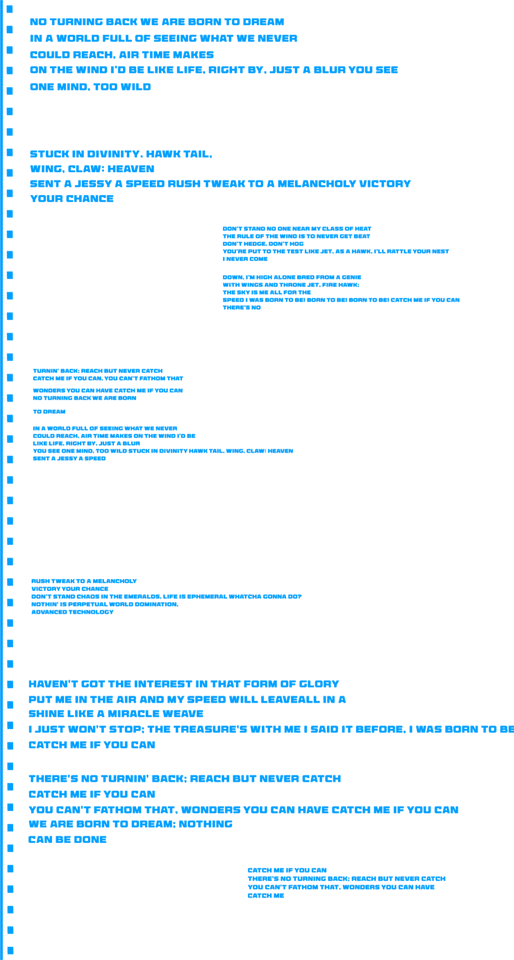
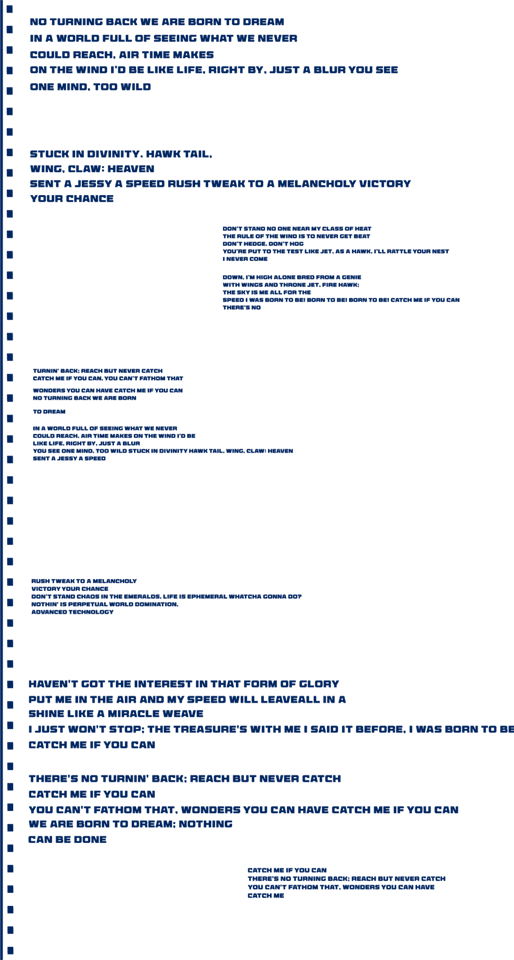
Riders hue rotate

diff --git a/js/riders/controller.js b/js/riders/controller.js
@@ -31,24 +31,37 @@ buscadorClone.addEventListener("keydown", function ({ target: { value: valorBusq
     }
 })
 
-storage.sync.get({ ridersColor: { red: 0, green: 0, blue: 0, alpha: 0 } }, ({ ridersColor }) => {
+/* storage.sync.get({ ridersColor: { red: 0, green: 0, blue: 0, alpha: 0 } }, ({ ridersColor }) => {
     cambiaColor(ridersColor)
     colorRiders.value = rgbToHex(ridersColor.red, ridersColor.green, ridersColor.blue)
+}) */
+
+storage.sync.get({ "ridersTurn": "0" }, ({ ridersTurn: grados }) => {
+    cambiaColor(grados, true)
+    colorRiders.value = grados;
 })
 
 var timeoutColor = setTimeout(() => { });
 
-colorRiders.addEventListener("input", ({ target: { value: color } }) => {
+/* colorRiders.addEventListener("input", ({ target: { value: color } }) => {
     if (timeoutColor != undefined) clearTimeout(timeoutColor);
     cambiaColor(hexToRgb(color))
     timeoutColor = setTimeout(() => {
         cambiaColor(hexToRgb(color), true)
     }, 1500);
+}) */
+
+colorRiders.addEventListener("input", ({ target: { value: grados } }) => {
+    if (timeoutColor != undefined) clearTimeout(timeoutColor);
+    cambiaColor(grados)
+    timeoutColor = setTimeout(() => {
+        cambiaColor(grados, true)
+    }, 600);
 })
 
 var disableSave = true
 
-cancelColor.addEventListener("click", () => {
+/* cancelColor.addEventListener("click", () => {
     if (disableSave) {
         clearInterval(timeoutColor)
         cambiaColor({
@@ -63,7 +76,7 @@ cancelColor.addEventListener("click", () => {
         }, 2500);
         reproduceSonido(menuQuestion, .5)
     }
-})
+}) */
 
 var extrasMusic;
 
@@ -72,13 +85,32 @@ cogSettings.addEventListener("click", () => {
     cogSettings.classList.toggle("gearSpin")
     if (menuA.classList.contains("gearChange")) {
         if (extrasMusic == undefined) extrasMusic = reproduceSonido(menuExtras, 0.15, true, 18, 87.6, 0, 500);
-        else turnUp(extrasMusic, 0.15)
+        else setTimeout(() => {
+            turnUp(extrasMusic, 0.15)
+        }, 250);
     }
     else {
         lowerVolume(extrasMusic, 0.004)
     }
     reproduceSonido(menuConfirm, 0.2)
 })
+
+/* async function cambiaColor({ red, green, blue, alpha }, save = false) {
+    $(".colorMask").css({
+        "background-color": `rgb(${red}, ${green}, ${blue}, ${alpha})`
+    })
+    if (red == 0 && green == 0 && blue == 0 && alpha == 0) $(".variableHue").addClass("original");
+    else $(".variableHue").removeClass("original");
+    if (save) storage.sync.set({ ["ridersColor"]: { red: red, green: green, blue: blue, alpha: alpha } })
+} */
+
+async function cambiaColor(grados, save = false) {
+    document.documentElement.style.setProperty('--default-color', grados + "deg");
+    if (save) {
+        storage.sync.set({ ridersTurn: grados })
+        console.log("saved");
+    }
+}
 
 function generaDive() {
     if (gravityDiveContainer.children.length > 0) return false;
@@ -95,16 +127,6 @@ function generaDive() {
     });
 
     return true;
-}
-
-async function cambiaColor({ red, green, blue, alpha }, save = false) {
-    $(".colorMask").css({
-        "background-color": `rgb(${red}, ${green}, ${blue}, ${alpha})`
-    })
-    if (red == 0 && green == 0 && blue == 0 && alpha == 0) $(".variableHue").addClass("original");
-    else $(".variableHue").removeClass("original");
-    if (save) storage.sync.set({ ["ridersColor"]: { red: red, green: green, blue: blue, alpha: alpha } })
-
 }
 
 function hexToRgb(hex) {

diff --git a/css/indexRiders.css b/css/indexRiders.css
@@ -226,17 +226,33 @@ body {
     object-fit: cover;
     object-position: top;
     overflow: visible;
-    background-image: url(../images/riders/background_lowres.png);
+    background-image: url(../images/riders/background_lowres2.png);
     background-size: contain;
     background-repeat: repeat-y;
     opacity: .4;
     background-blend-mode: overlay;
     filter: brightness(200%);
-    opacity: .25;
+    opacity: .4;
 }
 
 .textBlur {
-    filter: blur(.75rem) brightness(500%) saturate(250%) contrast(200%)
+    filter: blur(.6rem) brightness(200%) saturate(250%) contrast(200%)
+}
+
+/* .variableHue:not(.original) {
+    filter: saturate(0);    
+}*/
+
+.variableHue {
+    filter: hue-rotate(var(--default-color));
+}
+
+.backgroundText.variableHue {
+    filter: brightness(200%) hue-rotate(var(--default-color));
+}
+
+.textBlur.variableHue {
+    filter: blur(.6rem) brightness(200%) saturate(250%) contrast(200%) hue-rotate(var(--default-color));
 }
 
 .colorMask {
@@ -409,6 +425,21 @@ body {
     animation: spinWheel 2s infinite linear;
 }
 
+.flexHue {
+    display: flex;
+    flex-direction: column;
+    gap: 3px;
+}
+
+.flexHue>input {
+    margin: 0px;
+}
+
+.flexHue>img {
+    height: 10px;
+    filter: hue-rotate(0deg);
+}
+
 .cancelColor:hover {
     scale: 1.3;
     color: red;
@@ -471,10 +502,6 @@ body {
 .formRiders>input {
     width: 50%;
     height: 50%;
-}
-
-.variableHue:not(.original) {
-    filter: saturate(0);
 }
 
 .fontBack {

diff --git a/templates/riders.html b/templates/riders.html
@@ -3,7 +3,7 @@
 <!-- Background Video  + Vignette + Ring List-->
 <div class="ringList"></div>
 <div class="vignette"></div>
-<div class="colorMask"></div>
+<!-- <div class="colorMask"></div> -->
 <!-- Divs elementos página -->
 <div class="technoLineContainer variableHue">
     <div class="technoLine technoBlur">
@@ -22,7 +22,7 @@
 <div class="cogSettings">
     <img src="images/cogwheel.svg" alt="">
 </div>
-<img src="images/riders/spinWheel.png" class="backgroundWheel" />
+<img src="images/riders/spinWheel.png" class="backgroundWheel variableHue" />
 <!-- <img src="images/riders/spinLine.png" class="backgroundLine" /> -->
 <!-- Divs elementos página -->
 <div class="menuA"></div>
@@ -69,8 +69,11 @@
             <legend>Settings</legend>
             <div class="colorRidersContainer">
                 Select a background color
-                <input id="colorRiders" type="color">
-                <div class="cancelColor"> ✖ </div>
+                <div class="flexHue">
+                    <input id="colorRiders" type="range" min="0" max="360">
+                    <img src="images/riders/hue.png" width="128px" alt="">
+                </div>
+                <!-- <div class="cancelColor"> ✖ </div> -->
             </div>
         </fieldset>
     </div>

diff --git a/js/popup.js b/js/popup.js
@@ -38,7 +38,8 @@ storage.sync.get({
         green: 0,
         blue: 0,
         alpha: 0
-    }
+    },
+    ridersTurn: "0"
 }, async function (obj) {
 
     let modoApp = obj.modoApp;
